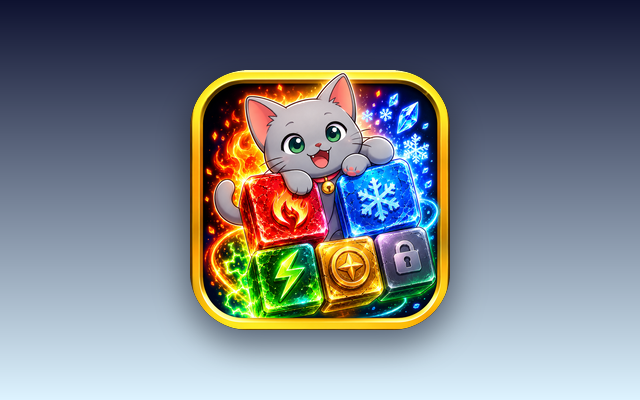
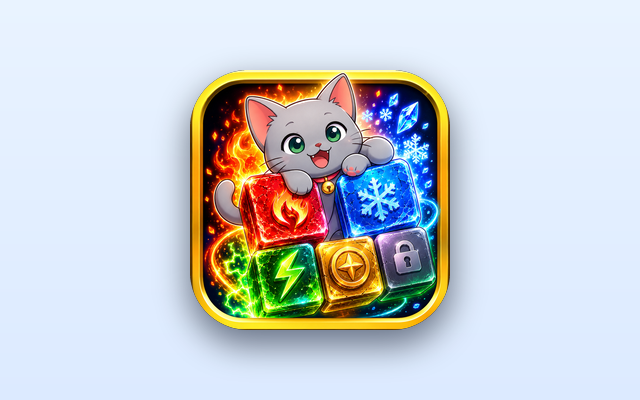
アプリ一覧の整理: Tower Defender削除・サムネ2枚を統一
- Tower Defender（仮）カードを削除（実ページ・画像なしのプレースホルダだった）
- board-game サムネ: 全面アート→他と同じ260px中央アイコン＋淡クリーム背景で再生成
- block-puzzle サムネ: 濃紺グラデ背景→淡い青グラデに再生成し他と統一
  （tools/make_app_images.py で生成）

diff --git a/apps.html b/apps.html
@@ -101,15 +101,6 @@
           </div>
         </a>
 
-        <a href="apps/tower-defender.html" class="app-card" data-category="board">
-          <div class="app-thumb"><span>images/tower-defender-thumb.png</span></div>
-          <div class="app-body">
-            <div class="app-meta"><span class="badge board">ボードゲーム</span></div>
-            <h3>Tower Defender（仮）</h3>
-            <p>タワーディフェンス系ゲーム。※内容を教えてください。</p>
-          </div>
-        </a>
-
         <!-- ライフスタイル -->
         <a href="apps/subsclens.html" class="app-card" data-category="life">
           <div class="app-thumb"><img src="images/subsclens-thumb.png" alt="SubscLens（サブスク管理）" /></div>